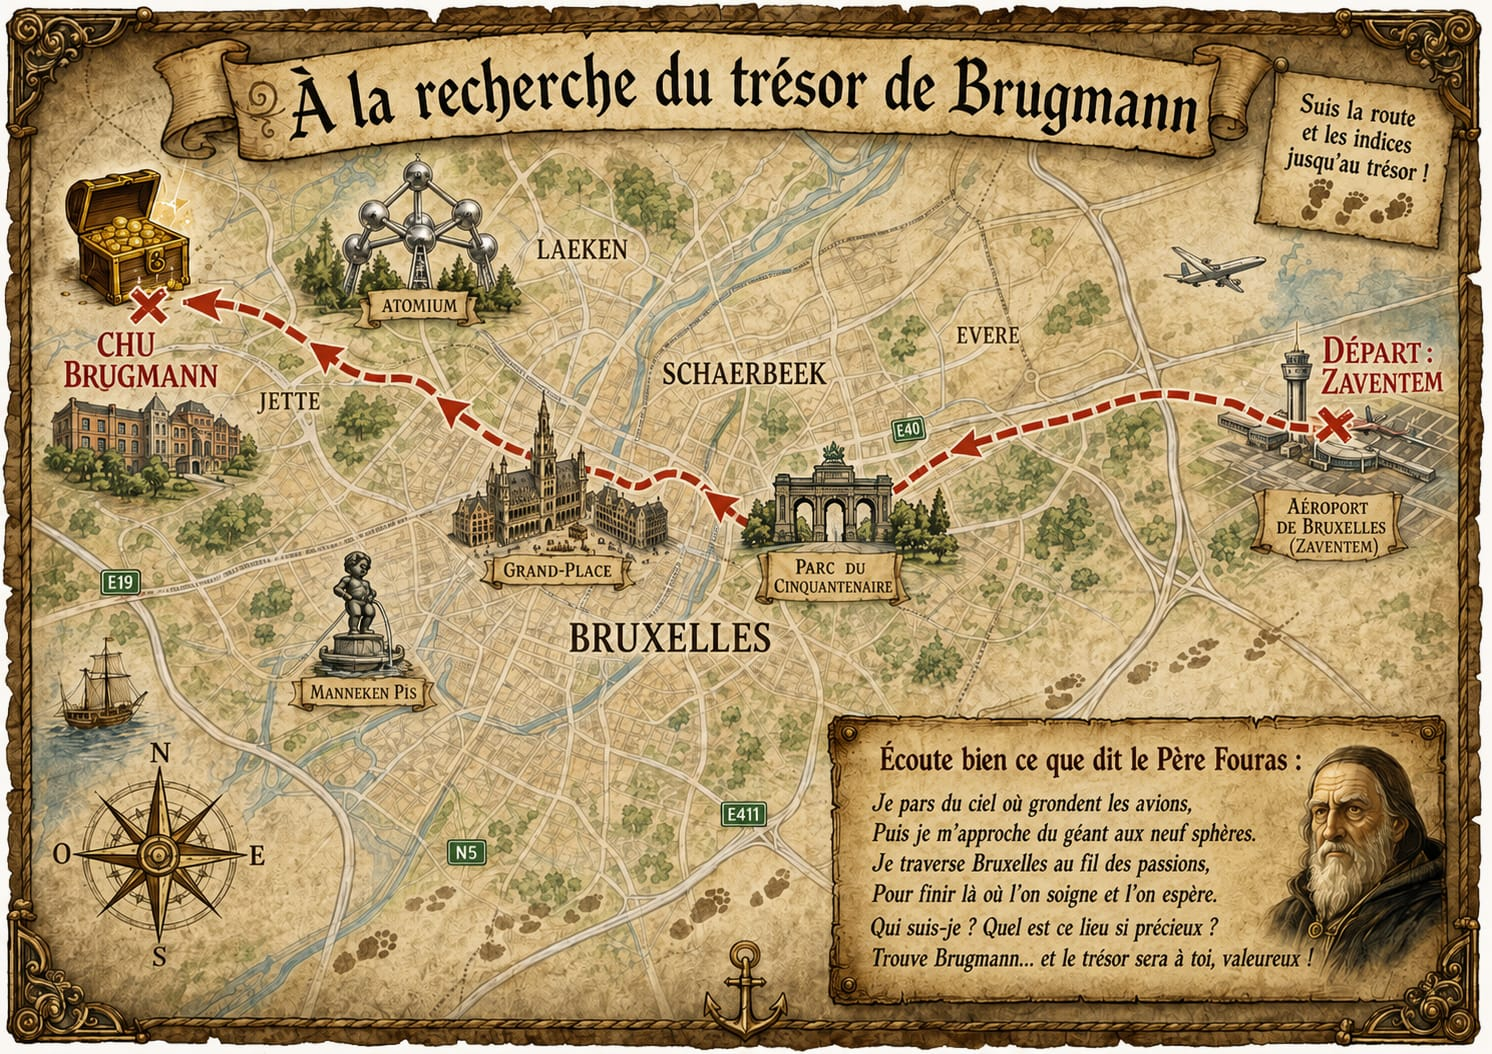
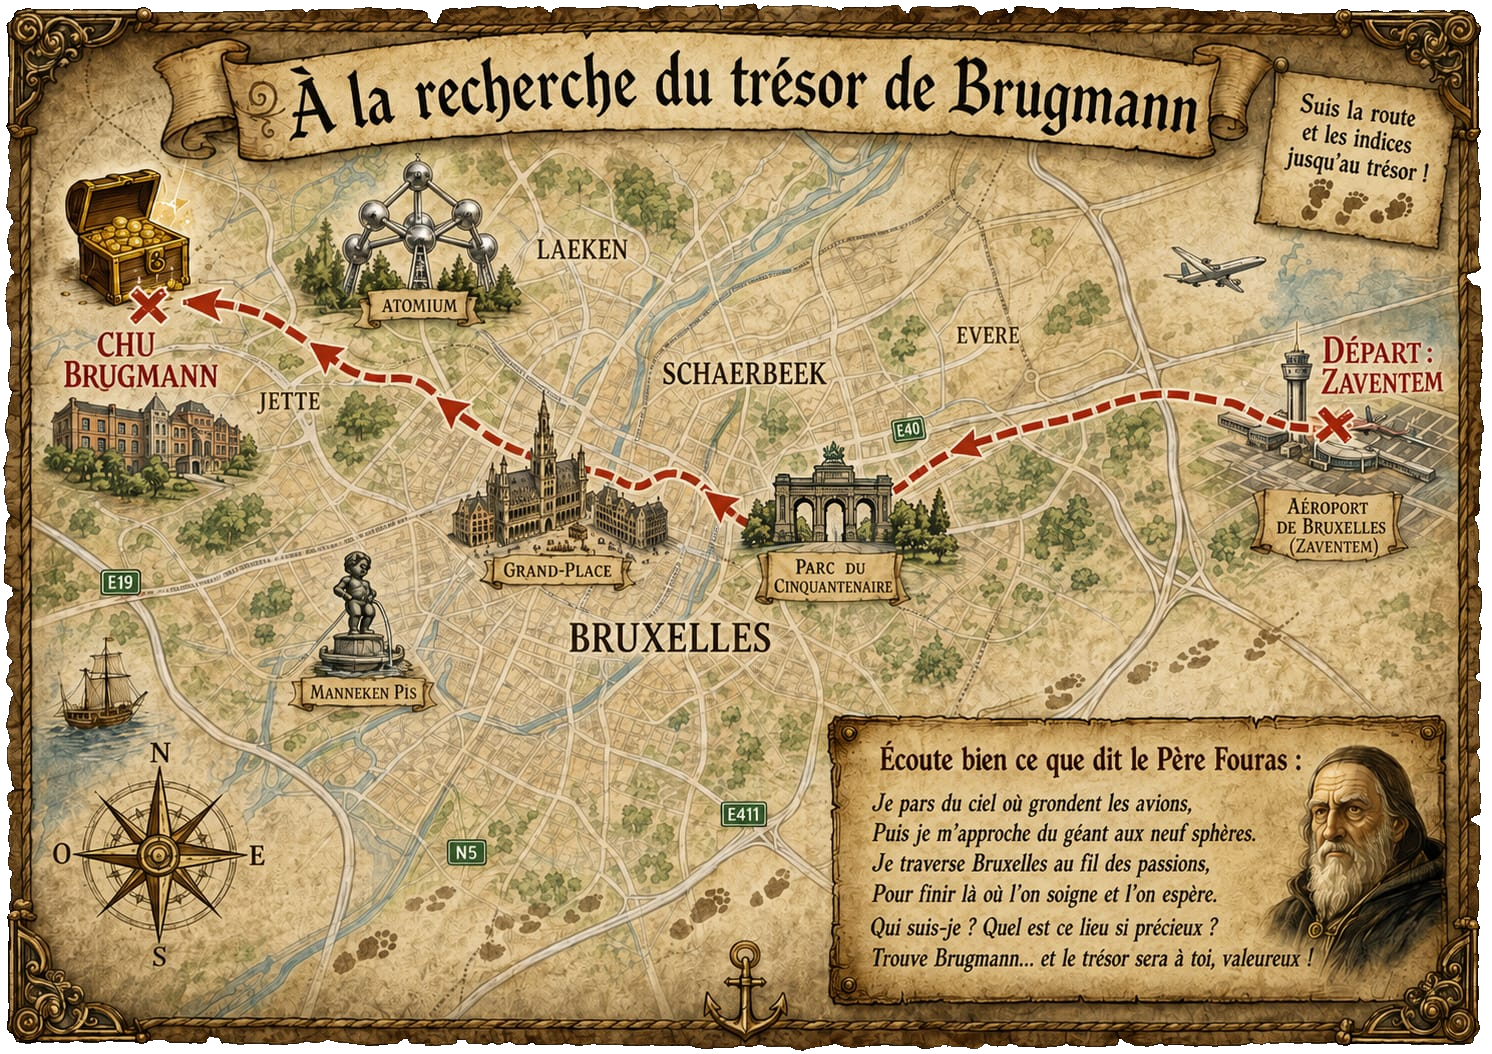
Supprimer le fond blanc autour de la carte

Changed region(s): [[0.9866, 0.759, 1.0, 0.7894], [0.9866, 0.2429, 1.0, 0.2732]]

diff --git a/src/styles/global.css b/src/styles/global.css
@@ -625,7 +625,7 @@ svg {
   overflow-y: hidden;
   border: 2px solid #7a4d26;
   border-radius: 13px;
-  background: #d1ad70;
+  background: #3a2017;
   box-shadow:
     inset 0 0 25px rgba(58, 28, 10, 0.38),
     0 12px 30px rgba(0, 0, 0, 0.25);
@@ -652,7 +652,7 @@ svg {
   position: relative;
   width: max(100%, 760px);
   overflow: hidden;
-  background: #d8b978;
+  background: #3a2017;
 }
 
 .map-image {